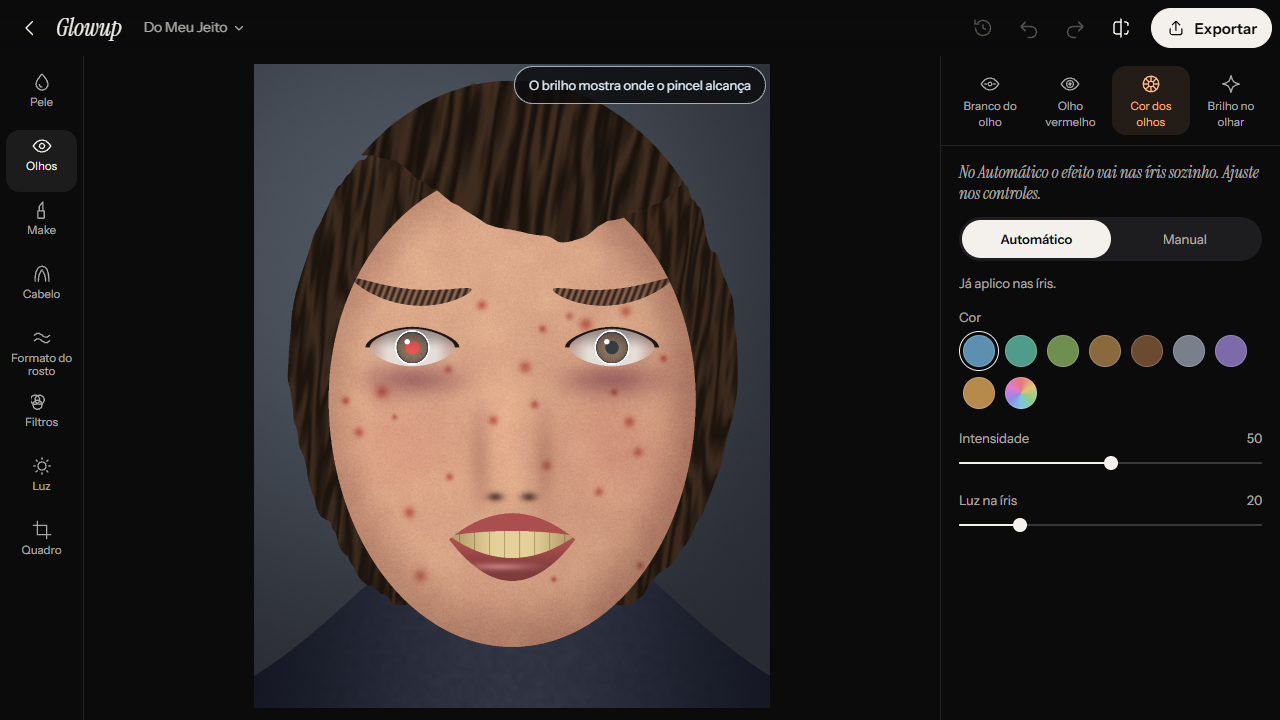
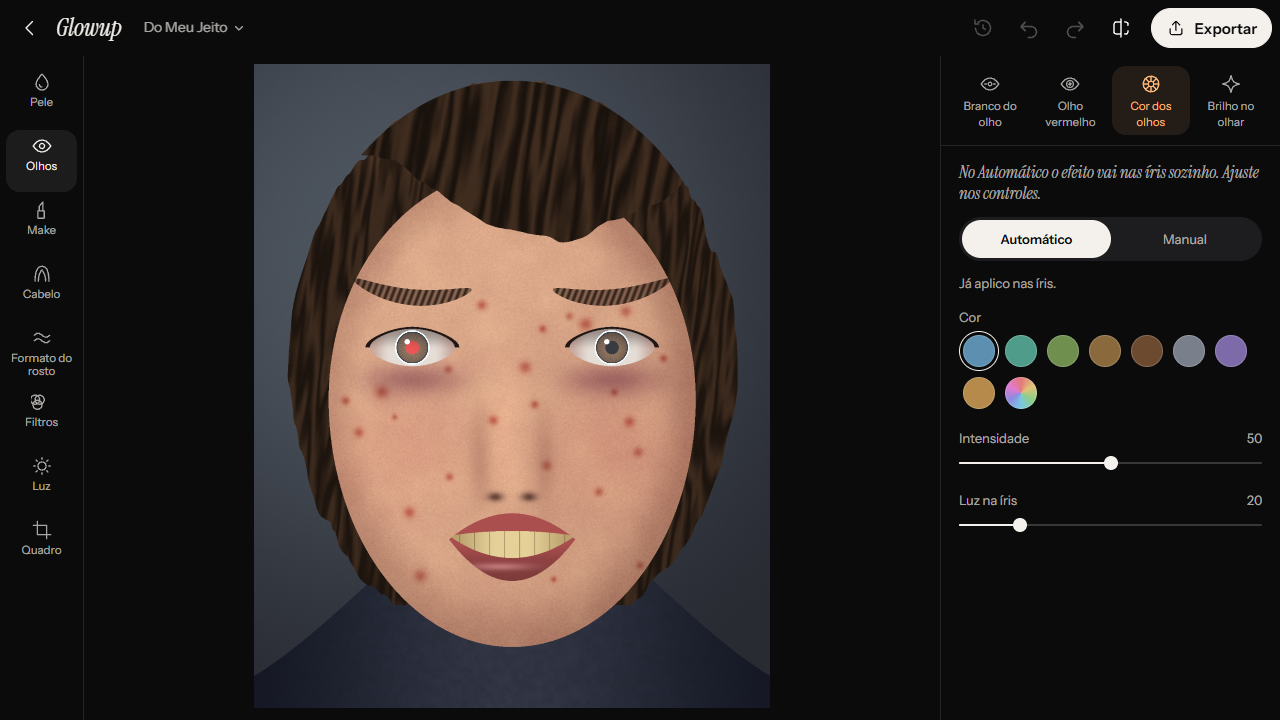
fix: picking a part shows only the light, with no notice over the photo
The notice "O brilho mostra onde o pincel alcança" was not asked for. The cold light alone shows
the part being edited (decision 361, replacing 69).

Changed region(s): [[0.4062, 0.0917, 0.5938, 0.1528]]

diff --git a/src/ui/Editor.svelte b/src/ui/Editor.svelte
@@ -88,20 +88,6 @@
   const groupDirty = $derived((ui.rev, ready && groupChanged(ui.group)));
   const photoDirty = $derived((ui.rev, ready && photoChanged()));
 
-  /** The words under the light stay a little longer than the light, time enough to read them. */
-  let reachNote = $state(false);
-  let reachTimer: ReturnType<typeof setTimeout> | undefined;
-  $effect(() => {
-    if (regionShow.phase !== 'glow') return;
-    reachNote = true;
-    clearTimeout(reachTimer);
-    reachTimer = setTimeout(() => (reachNote = false), 2600);
-  });
-  $effect(() => {
-    void ui.tool;
-    reachNote = false;
-  });
-
   let off: (() => void) | null = null;
 
   /** Marks a stage and lets the screen show it before the next blocking step. */
@@ -549,10 +535,6 @@
     </div>
   {/if}
 
-  {#if reachNote && !marking}
-    <div class="reach" role="status" data-testid="reach-chip" in:reveal={{ duration: 200, y: -6 }}>O brilho mostra onde o pincel alcança</div>
-  {/if}
-
   {#if ready && ui.choosingPath}
     <PathChoice />
   {/if}
@@ -884,22 +866,6 @@
     font-size: 13px;
     white-space: nowrap;
     transition: opacity var(--t-mid) var(--ease-swift);
-  }
-
-  .reach {
-    position: absolute;
-    left: 50%;
-    top: calc(var(--bar-h) + var(--safe-top) + 10px);
-    translate: -50% 0;
-    z-index: 15;
-    padding: 9px 14px;
-    border-radius: 999px;
-    background: rgb(11 11 12 / 0.82);
-    border: 1px solid rgb(219 240 255 / 0.7);
-    color: rgb(225 242 255);
-    font-size: 13px;
-    white-space: nowrap;
-    pointer-events: none;
   }
 
   .marking button {

diff --git a/tests/e2e/region.spec.ts b/tests/e2e/region.spec.ts
@@ -46,10 +46,10 @@ test.describe('olhos e dentes em destaque', () => {
     // The light is on the photo before the new color is: over the whole photo the eyes are a small part,
     // and at its height the light moves the mean by about 0.17.
     expect(await meanDiff(page, before, lit, stage(page))).toBeGreaterThan(0.08);
-    await expect(page.getByTestId('reach-chip')).toBeVisible();
+    // Only the light: no words over the photo.
+    await expect(page.getByText('O brilho mostra onde o pincel alcança')).toHaveCount(0);
     await showSettled(page);
     expect(await viewZoom(page)).toBe(1);
-    await expect(page.getByTestId('reach-chip')).toHaveCount(0, { timeout: 5_000 });
     await settle(page, 300);
     const plain = await page.screenshot({ path: shot('ui-regiao-olhos') });
     // The light left nothing behind.

diff --git a/tests/e2e/helpers.ts b/tests/e2e/helpers.ts
@@ -85,8 +85,6 @@ export async function limitSettled(page: Page, { auto = false, free = false }: R
   }
   await expect(page.locator('[data-limit=searching]')).toHaveCount(0, { timeout: 60_000 });
   await showSettled(page);
-  // The words over the photo outlast the light by a little.
-  await expect(page.getByTestId('reach-chip')).toHaveCount(0, { timeout: 10_000 });
   if (!auto && (await page.locator('[data-testid=tool-mode][data-mode=auto]').count())) {
     await chooseMode(page, 'Manual');
     const undo = page.getByRole('button', { name: 'Desfazer' });

diff --git a/tests/e2e/hair.spec.ts b/tests/e2e/hair.spec.ts
@@ -64,7 +64,6 @@ test.describe('cabelo', () => {
     await expect(page.getByText(/Aplicado no cabelo que achei/)).toBeVisible({ timeout: 15_000 });
     await expect(undoButton(page)).toHaveAttribute('title', 'Desfazer: Automático');
     await expect(page.getByRole('button', { name: 'Borracha' })).toHaveCount(0);
-    await expect(page.getByTestId('reach-chip')).toHaveCount(0, { timeout: 10_000 });
     await page.keyboard.press('0');
     await settle(page, 400);
     await page.screenshot({ path: shot('ui-cabelo-auto') });

diff --git a/tests/e2e/skin.spec.ts b/tests/e2e/skin.spec.ts
@@ -65,7 +65,6 @@ test.describe('pele', () => {
     await expect(page.getByText(/Aplicado na pele que achei/)).toBeVisible({ timeout: 15_000 });
     await expect(undoButton(page)).toHaveAttribute('title', 'Desfazer: Automático');
     await expect(page.getByRole('button', { name: 'Borracha' })).toHaveCount(0);
-    await expect(page.getByTestId('reach-chip')).toHaveCount(0, { timeout: 10_000 });
     const after = await fitted(page);
     await page.screenshot({ path: shot('ui-pele-auto') });
 

diff --git a/docs/DECISIONS.md b/docs/DECISIONS.md
@@ -526,3 +526,9 @@ na exportação em resolução total, e a linha dos olhos com zoom.
 | 358 | Manchas guarda um conjunto só de correções por foto, e cada uma diz se veio do Automático ou do pincel. O projeto salvo guarda isso, e uma correção de projeto antigo, sem origem, conta como do pincel | Automático e Manual convivem: a pessoa usa o Automático, vai ao Manual tirar o que ele fez, e volta |
 | 359 | O Automático de Manchas procura uma vez por foto e guarda o que achou. Voltar para o Automático não procura de novo nem devolve uma mancha que a pessoa tirou. Só "Aplicar de novo" e o segundo toque na ferramenta põem as manchas de novo. As do Automático entram junto das do pincel, sem tratar de novo uma mancha já tratada | Refazer tudo ao voltar desmanchava o que a pessoa tinha acertado à mão |
 | 360 | Os círculos das correções aparecem no Automático e no Manual, e um toque num círculo tira aquela correção, venha ela do Automático ou do pincel, numa etapa do desfazer | Assim a pessoa tira uma mancha do Automático sem sair do Manual |
+
+## Brilho sem aviso
+
+| # | Decisão | Motivo |
+| --- | --- | --- |
+| 361 | Ao escolher uma parte, só o brilho aparece: saiu o aviso "O brilho mostra onde o pincel alcança" (decisão 69) | Pedido de quem usa: o aviso não foi pedido, e o brilho sozinho já mostra a parte que está sendo editada |

diff --git a/docs/DESIGN.md b/docs/DESIGN.md
@@ -225,8 +225,7 @@ rostos achados.
 - **Vista.** Quando a região fica pronta, a vista fica onde a pessoa deixou: sem zoom e sem arrastar a foto.
   Pinça, roda, teclas e enquadrar seguem com ela.
 - **Brilho.** Uma luz fria acende sobre o que o pincel alcança, com borda clara e uma faixa que
-  atravessa a tela, e apaga em pouco mais de um segundo. O aviso "O brilho mostra onde o pincel alcança"
-  fica um pouco mais. A luz é fria para nunca ser confundida com a marca laranja, que é o que se pintou, e
+  atravessa a tela, e apaga em pouco mais de um segundo. Nenhum aviso aparece por cima da foto. A luz é fria para nunca ser confundida com a marca laranja, que é o que se pintou, e
   não aparece na exportação. Volta a tocar quando o interruptor liga.
 - **Automático e Manual.** Seletor no topo do painel. O Automático vem ligado: depois do brilho, a
   ferramenta já aplica em todos os olhos ou dentes achados, numa etapa só, e os controles ajustam o efeito.
